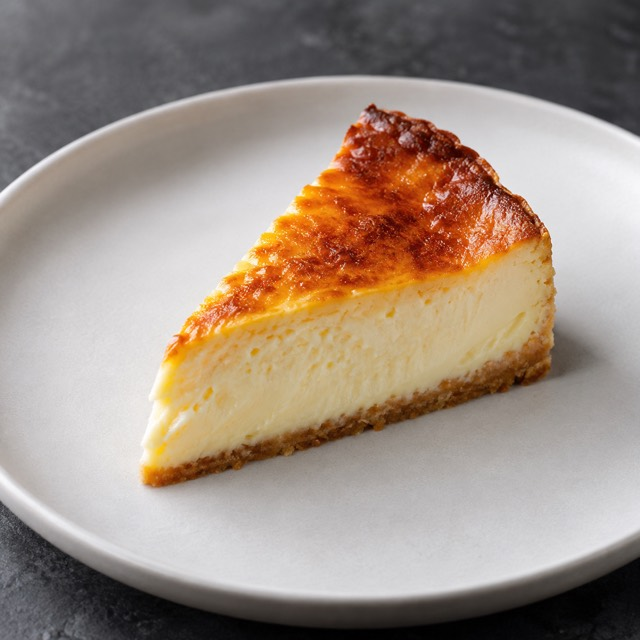
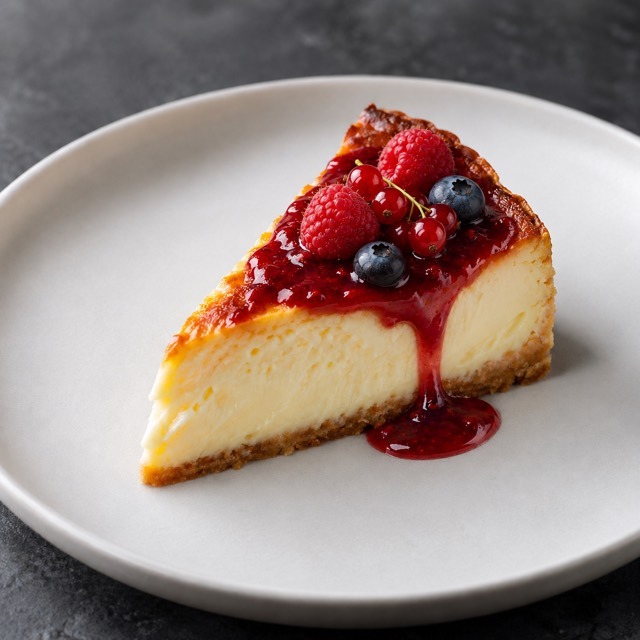
Fiestas: 1 prawn and 2 slices of bread per person in pica; tarta de queso donostiarra de pistacho (25) and con salsa de frutos rojos (26), new photos

Changed region(s): [[0.3125, 0.1875, 0.8438, 0.7188]]

diff --git a/fiestas/menus.js b/fiestas/menus.js
@@ -20,9 +20,9 @@ window.FIESTAS = {
       deadline: '2026-12-10', theme: 'navidad',
       pica: { key: 'pica25b', items: [
         { es: 'Tabla de embutidos ibéricos y queso', plate: true },
-        { es: 'Langostinos cocidos con mayonesa de cítricos', perPerson: 2 },
+        { es: 'Langostinos cocidos con mayonesa de cítricos', perPerson: 1 },
         { es: 'Torreznos de Soria con salsa agridulce y pico de gallo', plate: true },
-        { es: 'Pan de coca con tomate y aceite de oliva virgen extra', plate: true }
+        { es: 'Pan de coca con tomate y aceite de oliva virgen extra', perPerson: 2 }
       ] },
       menu: {
         primero: [
@@ -38,7 +38,7 @@ window.FIESTAS = {
           { key: 'roda25', es: 'Lomo de rodaballo con salsa de cava y azafrán y espinacas a la catalana' }
         ],
         postre: [
-          { key: 'qpis25', es: 'Tarta de queso casera al horno con crema de pistacho' },
+          { key: 'qpis25', es: 'Tarta de queso donostiarra de pistacho' },
           { key: 'bola25', es: 'Bola de Navidad', tags: ['firma'] },
           { key: 'coul25', es: 'Coulant de chocolate con helado de vainilla' },
           { key: 'tira25', es: 'Tiramisú casero' }
@@ -52,7 +52,7 @@ window.FIESTAS = {
         { es: 'Tabla de embutidos ibéricos y quesos artesanos', plate: true },
         { es: 'Fritura de pescado', plate: true },
         { es: 'Mini berenjenas rellenas de carne, gratinadas', perPerson: 1 },
-        { es: 'Pan de payés con tomate y aceite de oliva virgen extra', plate: true }
+        { es: 'Pan de payés con tomate y aceite de oliva virgen extra', perPerson: 2 }
       ] },
       menu: {
         primero: [
@@ -70,7 +70,7 @@ window.FIESTAS = {
         postre: [
           { key: 'redv26', es: 'Tarta red velvet' },
           { key: 'tron26', es: 'Tronco de Navidad' },
-          { key: 'ques26', es: 'Tarta de queso' },
+          { key: 'ques26', es: 'Tarta de queso casera con salsa de frutos rojos' },
           { key: 'truf26', es: 'Trufa de chocolate con helado de turrón' }
         ]
       }
